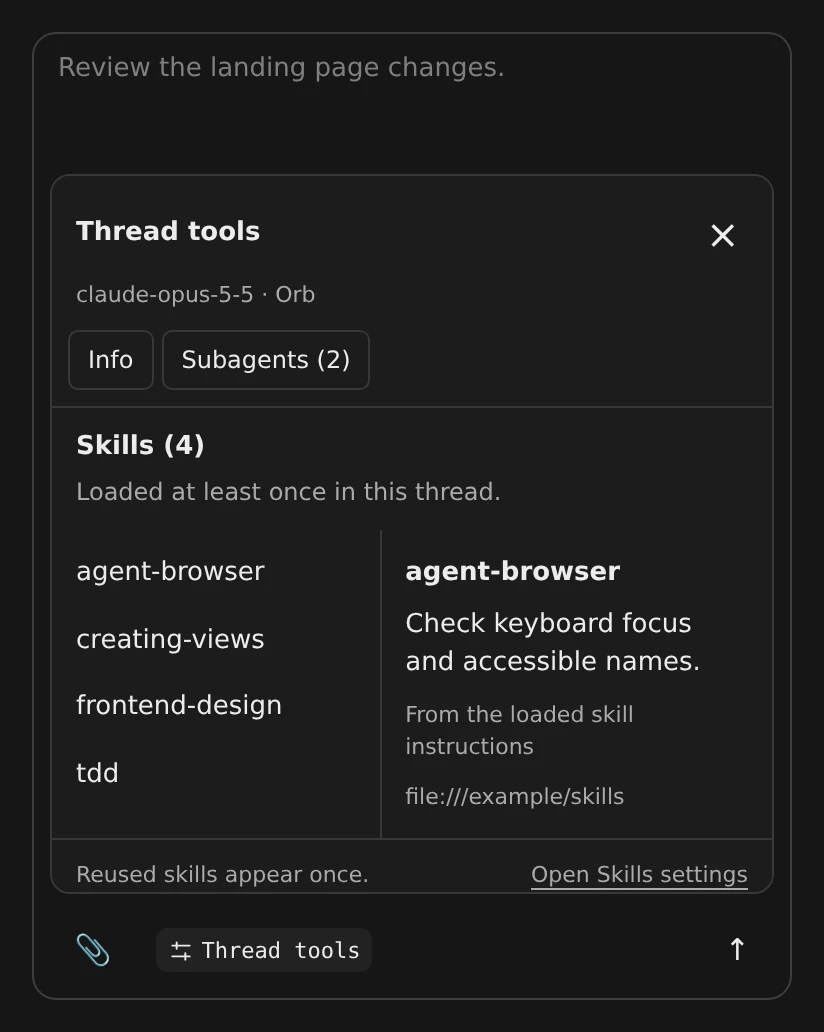
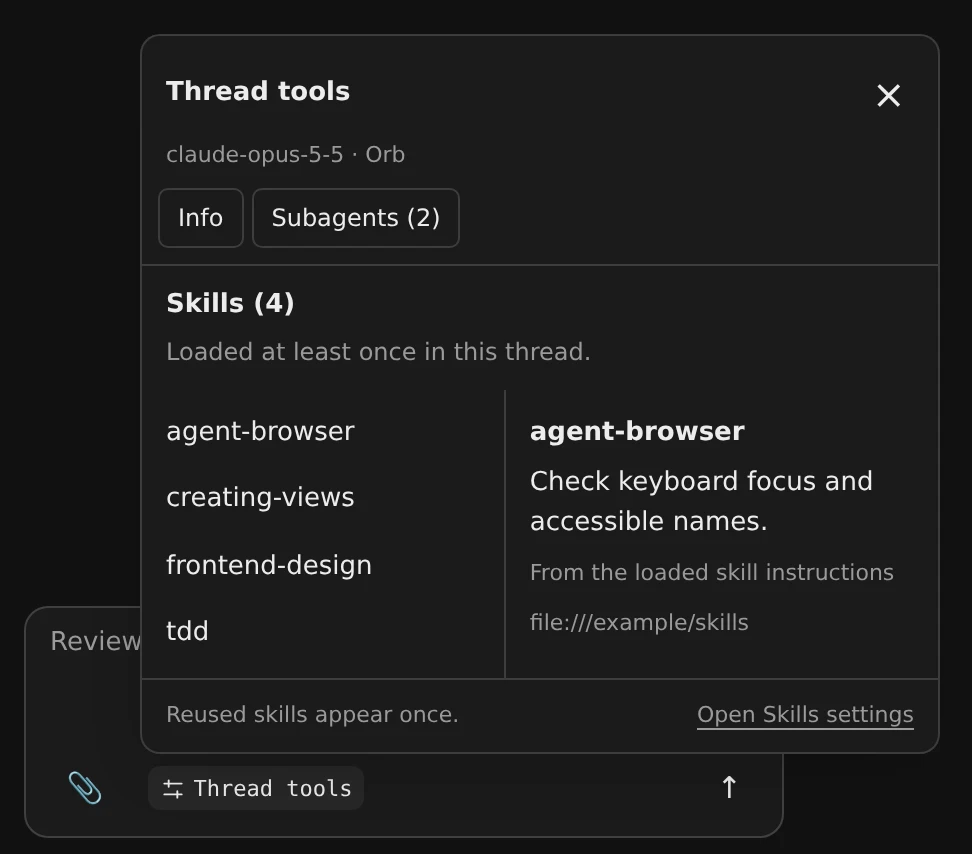
Open Thread tools as a popover above its button
The Thread tools panel was an inline accordion inside the composer, which took over the composer's left side and pushed the toolbar right. It is now a composer popover like Info and Messages: it opens above its trigger, left-aligned with it, and floats over the thread without growing the composer. Clicking elsewhere also closes it. aria-expanded updates in beforetoggle so it never lags the popover's state.

Update the browser test, docs, and the landing page capture to match.

Amp-Thread-ID: https://ampcode.com/threads/T-01a1c17b-e7b3-7085-a078-dbcf5ff03658

diff --git a/composer-tools.js b/composer-tools.js
@@ -98,56 +98,78 @@
       return anchor;
     }
 
-    function expand(open, restoreFocus = false) {
-      const s = state;
-      s.open = open;
-      s.panel.toggleAttribute("data-open", open);
-      s.panel.inert = !open;
-      s.panel.setAttribute("aria-hidden", String(!open));
-      for (const control of [s.toggle, s.rail.querySelector("button")]) control?.setAttribute("aria-expanded", String(open));
-      if (restoreFocus) {
-        const target = s.opener?.checkVisibility() ? s.opener : s.toggle.checkVisibility() ? s.toggle : s.rail.querySelector("button");
-        target?.focus({ preventScroll: true });
-      }
+    function isOpen() {
+      return !!state?.panel.matches(":popover-open");
     }
 
-    function togglePanel(event) {
-      hideTip();
-      render();
-      state.opener = event.currentTarget;
-      expand(!state.open);
+    // The visible control that opened the panel, or whichever trigger the
+    // current layout shows after a resize hid it.
+    function anchor() {
+      const s = state;
+      return [s.opener, s.toggle, s.rail.querySelector("button")].find(control => control?.checkVisibility()) ?? s.toggle;
+    }
+
+    function close() {
+      if (isOpen()) state.panel.hidePopover();
+    }
+
+    function invoker(control) {
+      control.popoverTargetElement = state.panel;
+      control.setAttribute("aria-controls", state.panel.id);
+      control.setAttribute("aria-expanded", String(isOpen()));
+      control.addEventListener("click", event => { state.opener = event.currentTarget; });
+    }
+
+    // The popover's own events drive the triggers' state, so the buttons,
+    // Escape, and clicks elsewhere (light dismiss) open and close it the same way.
+    // beforetoggle fires synchronously, so aria-expanded never lags the popover.
+    function expanded(event) {
+      const s = state;
+      if (s?.panel !== event.target) return;
+      for (const control of [s.toggle, s.rail.querySelector("button")]) control?.setAttribute("aria-expanded", String(event.newState === "open"));
+    }
+
+    function toggled(event) {
+      const s = state;
+      if (s?.panel !== event.target) return;
+      if (event.newState === "open") {
+        hideTip();
+        render();
+        globalThis.ampPlacePopover(s.panel, anchor());
+      } else if (s.panel.contains(document.activeElement) || document.activeElement === document.body) {
+        anchor().focus({ preventScroll: true });
+      }
     }
 
     function escape(event) {
       hideTip();
-      if (state?.open && state.composer.contains(event.target) && !event.defaultPrevented) {
-        expand(false, true);
+      if (isOpen() && !event.defaultPrevented) {
         event.preventDefault();
+        close();
       }
     }
 
     function setup() {
       const prefix = `amp-tools-${++sequence}`;
-      const toggle = button("Thread tools", togglePanel, "toggle");
+      const toggle = node("button", "Thread tools", "toggle");
+      toggle.type = "button";
       toggle.dataset.ampComposerControl = "tools";
-      toggle.setAttribute("aria-controls", prefix);
-      toggle.setAttribute("aria-expanded", "false");
       toggle.prepend(globalThis.ampIcon("M4 7h16M4 17h16M8 4v6M16 14v6"));
+      // Opens upward from its trigger like the Info and Messages popovers,
+      // floating over the thread instead of growing the composer.
       const panel = node("section", "", "panel");
       panel.id = prefix;
-      panel.inert = true;
-      panel.setAttribute("aria-hidden", "true");
+      panel.popover = "auto";
+      panel.setAttribute("data-amp-composer-popover", "");
       panel.setAttribute("aria-labelledby", `${prefix}-title`);
-      const clip = node("div", "", "clip");
-      const body = node("div", "", "body");
-      clip.append(body);
-      panel.append(clip);
+      panel.addEventListener("beforetoggle", expanded);
+      panel.addEventListener("toggle", toggled);
       const heading = node("h2", "Thread tools");
       heading.id = `${prefix}-title`;
-      const close = button("×", () => expand(false, true));
-      close.setAttribute("aria-label", "Close thread tools");
+      const dismiss = button("×", close);
+      dismiss.setAttribute("aria-label", "Close thread tools");
       const header = node("header");
-      header.append(heading, close);
+      header.append(heading, dismiss);
       const context = node("p", "", "context");
       const actions = node("nav", "", "actions");
       actions.setAttribute("aria-label", "Open thread panels");
@@ -169,7 +191,7 @@
       settings.rel = "noopener";
       settings.setAttribute("aria-label", "Open Skills settings in a new tab");
       footer.append(node("span", "Reused skills appear once."), settings);
-      body.append(header, context, actions, skills, footer);
+      panel.append(header, context, actions, skills, footer);
       const rail = node("div", "", "rail");
       const tip = node("div", "", "tooltip");
       tip.id = `${prefix}-tip`;
@@ -180,10 +202,11 @@
       const resize = new ResizeObserver(schedule);
       resize.observe(view.composer);
       resize.observe(view.toolbar.parentElement);
-      state = { id: view.id, composer: view.composer, toolbar: view.toolbar, toggle, panel, rail, tip, open: false,
+      state = { id: view.id, composer: view.composer, toolbar: view.toolbar, toggle, panel, rail, tip,
         context, actions, skills, label, notice, list, detail, footer, resize,
         used: new Map(), calls: new Map(), at: 0, dirty: true, historyLoaded: false, failed: false, incomplete: false };
-      view.host.append(tip);
+      invoker(toggle);
+      view.host.append(panel, tip);
     }
 
     function collect(pages, summaries) {
@@ -289,9 +312,9 @@
         const focused = document.activeElement;
         const focusRegion = s.list.contains(focused) ? s.list : s.rail.contains(focused) ? s.rail : null;
         hideTip();
-        const label = button(`Skills ${count}`, togglePanel);
-        label.setAttribute("aria-controls", s.panel.id);
-        label.setAttribute("aria-expanded", String(s.open));
+        const label = node("button", `Skills ${count}`);
+        label.type = "button";
+        invoker(label);
         s.rail.replaceChildren(label, ...skills.map(skill => link(skill)));
         if (!skills.length) s.rail.append(node("span", status));
         write(s.label, `Skills ${count}`);
@@ -320,7 +343,7 @@
         s.controls = controls;
         s.actions.replaceChildren(...controls.map(control => {
           return button("", () => {
-            expand(false);
+            close();
             // These remain the original controls and panels, with their native
             // state, polling, and transcript navigation. Do not duplicate them.
             control.click();
@@ -366,10 +389,10 @@
       if (row === view.composer) {
         if (state.rail.parentElement !== row) row.prepend(state.rail);
       } else if (state.rail.nextElementSibling !== row) row.before(state.rail);
-      if (state.panel.nextElementSibling !== state.rail) state.rail.before(state.panel);
       globalThis.ampMountComposerControl(view.toolbar, state.toggle);
       render();
       layout();
+      if (isOpen()) globalThis.ampPlacePopover(state.panel, anchor());
       if (enabled && state.dirty && !document.hidden && !state.loading) {
         const wait = 5000 - (Date.now() - state.at);
         if (wait <= 0) load();

diff --git a/sidebar.css b/sidebar.css
@@ -670,7 +670,7 @@
   color: var(--foreground, CanvasText);
   text-decoration: none;
 }
-[data-amp-tools-ui="body"], [data-amp-tools-ui="tooltip"] {
+[data-amp-tools-ui="tooltip"] {
   box-sizing: border-box;
   border: 1px solid var(--input-border, #80808033);
   border-radius: 10px;
@@ -679,25 +679,11 @@
   color-scheme: inherit;
   font: 13px/1.5 system-ui, sans-serif;
 }
-/* Keep the disclosure in flow above its controls. The inner clip lets the
-   composer grow and shrink without measuring or relocating Amp's own nodes. */
-[data-amp-tools-ui="panel"] {
-  display: grid;
-  grid-template-rows: 0fr;
-  min-width: 0;
-  visibility: hidden;
-  opacity: 0;
-  transition: grid-template-rows 180ms ease-out, opacity 140ms ease-out, visibility 180ms;
-}
-[data-amp-tools-ui="panel"][data-open] {
-  grid-template-rows: 1fr;
-  visibility: visible;
-  opacity: 1;
-}
-[data-amp-tools-ui="clip"] { min-height: 0; overflow: hidden; }
-[data-amp-tools-ui="body"] {
-  max-height: min(360px, 45dvh);
-  margin: 0 8px 8px;
+/* A composer popover above its trigger, like Info and Messages; the shared
+   rule places and frames it. Wider for the skill list and its details. */
+[data-amp-tools-ui="panel"]:popover-open {
+  width: min(400px, calc(100vw - 16px));
+  max-height: min(460px, 60vh);
   overflow: auto;
   overscroll-behavior: contain;
 }
@@ -741,9 +727,6 @@
 [data-amp-tools-ui] :is(button, a):hover { background: color-mix(in srgb, var(--foreground, CanvasText) 6%, transparent); }
 [data-amp-tools-ui] :is(button, a):focus-visible { outline: 2px solid var(--ring, currentColor); outline-offset: -2px; }
 [data-amp-tools-ui][hidden], [data-amp-tools-ui="panel"] [hidden] { display: none; }
-@media (prefers-reduced-motion: reduce) {
-  [data-amp-tools-ui="panel"] { transition: none; }
-}
 
 /* Keep Amp's owned nodes in place. The extra conversation is a sibling pane. */
 [data-slot="sidebar-inset"][data-amp-thread-split] {

diff --git a/docs/index.html b/docs/index.html
@@ -228,7 +228,7 @@
             </p>
             <p>
               When space gets tight, <strong>Thread tools</strong> folds these
-              controls into an accordion above the toolbar. Your draft,
+              controls into a popover above the toolbar. Your draft,
               attachments, and send button stay available. In a roomy composer,
               <strong>Skills</strong> opens the same panel.
             </p>
@@ -251,12 +251,12 @@
             <figure class="compact-capture">
               <img
                 src="assets/thread-tools-fixture.webp"
-                alt="Local fixture of a crowded composer with Thread tools expanded inline, showing Info, Subagents (2), and Skills (4) above the attachment and send controls."
-                width="824"
-                height="1032"
+                alt="Local fixture of a crowded composer with the Thread tools popover open above its button, showing Info, Subagents (2), and Skills (4)."
+                width="972"
+                height="854"
                 loading="lazy"
               />
-              <figcaption>Narrower composer, same local fixture. The panel expands inline, not as a modal. Captured November 9, 2026.</figcaption>
+              <figcaption>Narrower composer, same local fixture. The popover opens above its button, not as a modal. Captured November 9, 2026.</figcaption>
             </figure>
           </div>
         </div>

diff --git a/docs/assets/README.md b/docs/assets/README.md
@@ -56,8 +56,9 @@ them as local fixtures. They are not Web Store listing screenshots.
 
 - `composer-skills-fixture.webp`, 1504 × 365, shows a 720px-wide composer
   with four successful skill loads and two completed subagents.
-- `thread-tools-fixture.webp`, 824 × 1032, shows that same composer narrowed
-  to 380px and its Thread tools accordion opened. The model, skill excerpts,
+- `thread-tools-fixture.webp`, 972 × 854, shows that same composer narrowed
+  to 380px with its Thread tools popover open above the button. It was
+  recaptured after Thread tools became a popover, not at `59471a9`. The model, skill excerpts,
   draft text, and agent counts are synthetic. No thread messages are seeded,
   so the Messages control is absent.
 - `tool-preview-fixture.webp`, 1696 × 651, shows the fixture's nine-call
@@ -73,14 +74,17 @@ Capture method follows the Thread tools implementation's browser previews:
 3. Give the fixture dark colors using its native CSS variables, hide its
    explanatory article, and use a flex-column agent pane with the composer
    footer at the bottom. Set the composer input's minimum height to 70px.
+   For the Thread tools capture, also hide the transcript so only the composer
+   and its popover show.
    This styles the stand-in page only; extension controls use the unmodified
    `sidebar.css` and runtime scripts.
 4. Capture at 720px composer width, then at 380px after clicking
-   `[data-amp-tools-ui="toggle"]` and waiting for its animations to finish.
+   `[data-amp-tools-ui="toggle"]` and waiting for its popover to open.
 5. Navigate the fixture to a fresh thread and call
    `fixtureToolSection('landing')` for the faded tool preview.
 6. Take viewport PNGs, then crop to the composer or transcript bounding box
-   plus 16 CSS pixels of padding, using 2× coordinates. Encode with
+   (for Thread tools, the composer and popover together) plus 16 CSS pixels
+   of padding within the viewport, using 2× coordinates. Encode with
    ImageMagick `-quality 90` as WebP. No UI was composited or retouched;
    there was no private data to redact.
 

diff --git a/README.md b/README.md
@@ -100,13 +100,13 @@ If history cannot be fully read, the count has a `+` and the tools panel explain
 what is missing. Summaries may identify a skill without including its instructions.
 
 When the skill names or toolbar controls no longer fit, the extension folds its
-controls and model/runner label into **Thread tools**. Clicking it expands a panel
-inside the composer above the toolbar, like an accordion, without dimming or
-blocking the thread. Click again, use its close button, or press Escape within
-the composer to collapse it. **Skills** opens the same panel in the roomy layout.
+controls and model/runner label into **Thread tools**. Clicking it opens a popover
+above the button, left-aligned with it like the Info and Messages popovers, without
+dimming or blocking the thread. Click again, click elsewhere, use its close button,
+or press Escape to close it. **Skills** opens the same popover in the roomy layout.
 The panel lists all skills and opens the existing Info, Subagents, and Messages
 panels. Amp's attachment and send controls stay available. Resizing restores the
-full layout when it fits. Reduced-motion preferences disable the transition.
+full layout when it fits.
 Counts use parentheses, for example **Skills (4)** and **Subagents (2)**.
 
 These features have independent checkboxes in **Options**:

diff --git a/PRIVACY.md b/PRIVACY.md
@@ -108,7 +108,7 @@ visible; already-read history is reused. Turning the setting off, navigating awa
 or switching to mobile clears this in-memory cache and stops its requests.
 Clicking a skill opens `https://ampcode.com/settings/skills` in a new tab.
 When the composer is crowded, Thread tools groups extension controls into a
-dialog without changing Amp's composer or submitting its draft.
+popover without changing Amp's composer or submitting its draft.
 
 Apart from the thread communication described above, message IDs, timestamps,
 skill calls and results, completion state, and the model name recorded on the latest assistant reply,
